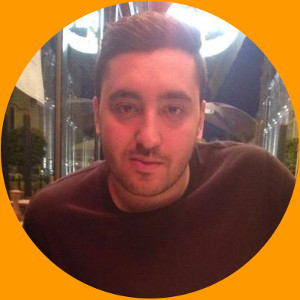
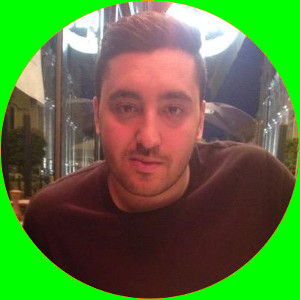
mon cv

Changed region(s): [[0.0, 0.0, 1.0, 1.0], [0.0, 0.0, 0.48, 0.48]]

diff --git a/css/freelancer.css b/css/freelancer.css
@@ -53,7 +53,7 @@ h6,
 header {
     text-align: center;
     color: #fff;
-    background: #FF9900;
+    background: #00FF00;
 }
 
 header .container {
@@ -152,7 +152,7 @@ section h2 {
 
 section.success {
     color: #fff;
-    background: #FF9900;
+    background: #00FF00;
 }
 
 section.success a,
@@ -191,7 +191,7 @@ section.success a.active {
     width: 100%;
     height: 100%;
     opacity: 0;
-    background: #FF9900;
+    background: #00FF00;
     -webkit-transition: all ease .5s;
     -moz-transition: all ease .5s;
     transition: all ease .5s;
@@ -245,7 +245,7 @@ section.success a.active {
 .btn-outline:active,
 .btn-outline.active {
     border: solid 2px #fff;
-    color: #FF9900;
+    color: #00FF00;
     background: #fff;
 }
 
@@ -298,7 +298,7 @@ section.success a.active {
 }
 
 .floating-label-form-group-with-focus label {
-    color: #FF9900;
+    color: #00FF00;
 }
 
 form .row:first-child .floating-label-form-group {
@@ -432,5 +432,5 @@ footer .footer-below {
 
 .lien,
 .lien:hover{
-    color:#FF9900;
+    color:#00FF00;
 }

diff --git a/index.html b/index.html
@@ -20,7 +20,7 @@
     <meta name="language" content="fr">
     <meta name="author" content="ACHOURI ILIES">
     <meta name="copyright" content="ACHOURI ILIES - Marseille 2015">
-    <meta name="date-revision-yyyymmdd" content="20150723"> 
+    <meta name="date-revision-yyyymmdd" content="20150915"> 
 
     <title>CV ACHOURI ILIES</title>
 
